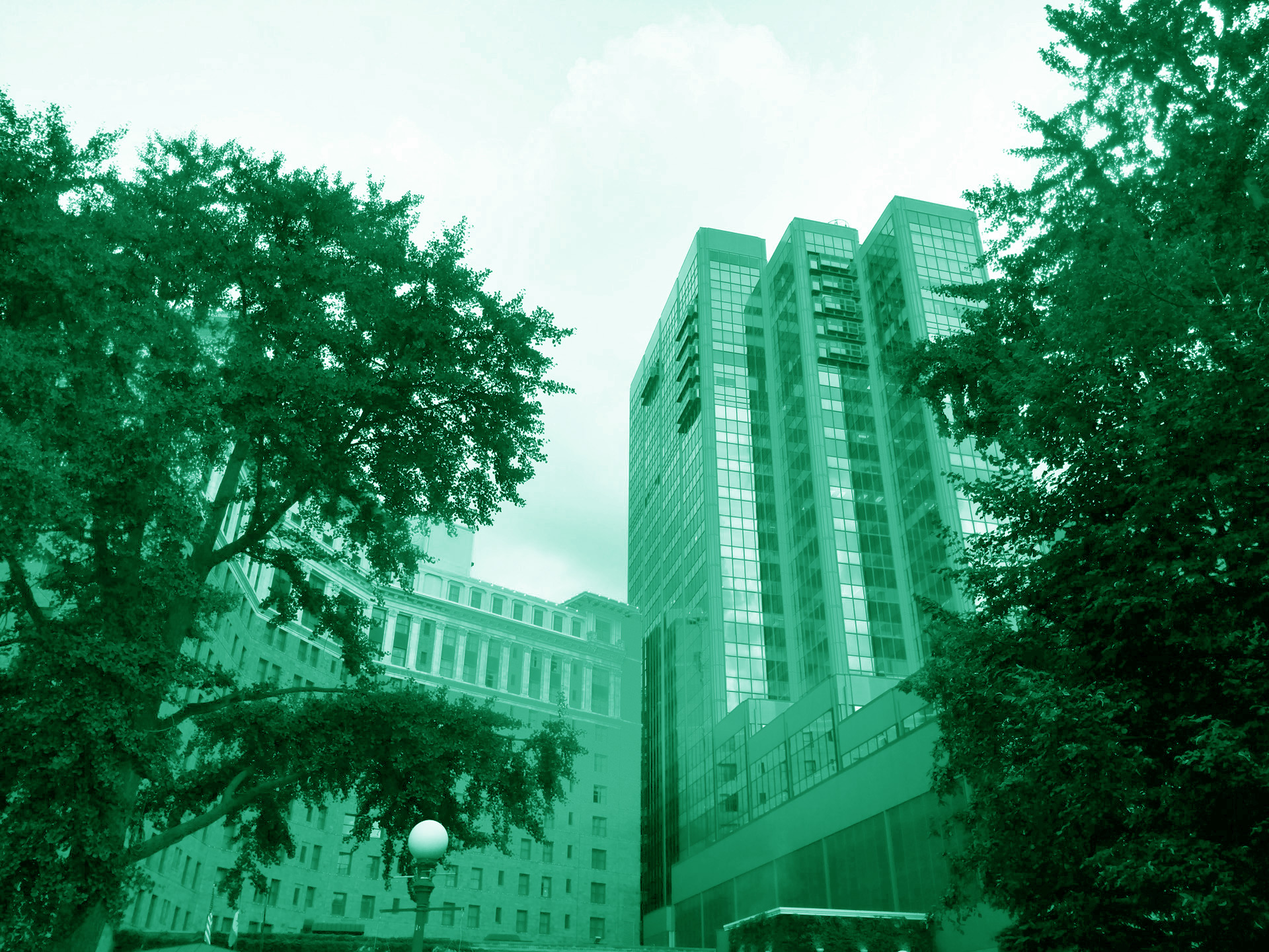
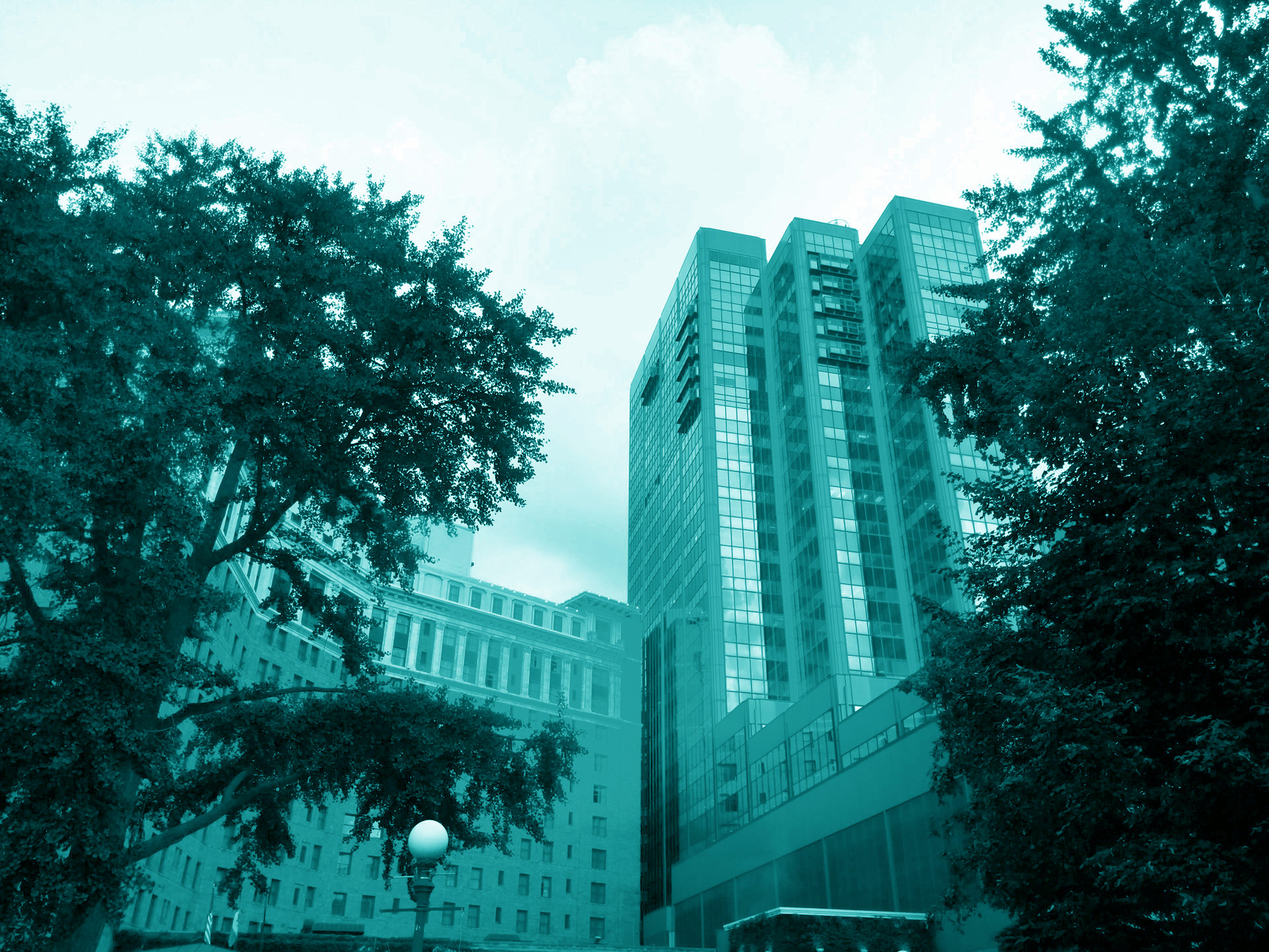
changes main site color to teal because I love teal

diff --git a/app.css b/app.css
@@ -107,7 +107,7 @@ nav.main {
             width: 17.5%;
             height: 100%;
             text-align: center;
-            color: #019875;
+            color: teal;
             background-color: rgba(255,255,255,0.85);
             transition: all 0.5s cubic-bezier(0,.62,.5,1);
         }
@@ -248,7 +248,7 @@ section.testimonials {
 /* CONTACT SECTION STYLES */
 section.contact {
     margin-top: 156px;
-    background-color: #019875;
+    background-color: teal;
     color: #fff;
     padding: 10em 0 10em 0;
     background-image: url(tin-cans.svg);
@@ -267,9 +267,9 @@ section.contact {
         left: 0;
         right: 0;
         border-radius: 50%;
-        background-color: #019875;
+        background-color: teal;
         border: 2px solid #fff;
-        box-shadow: 0 0 0px 20px #019875;
+        box-shadow: 0 0 0px 20px teal;
         height: 156px;
         width: 156px;
     }
